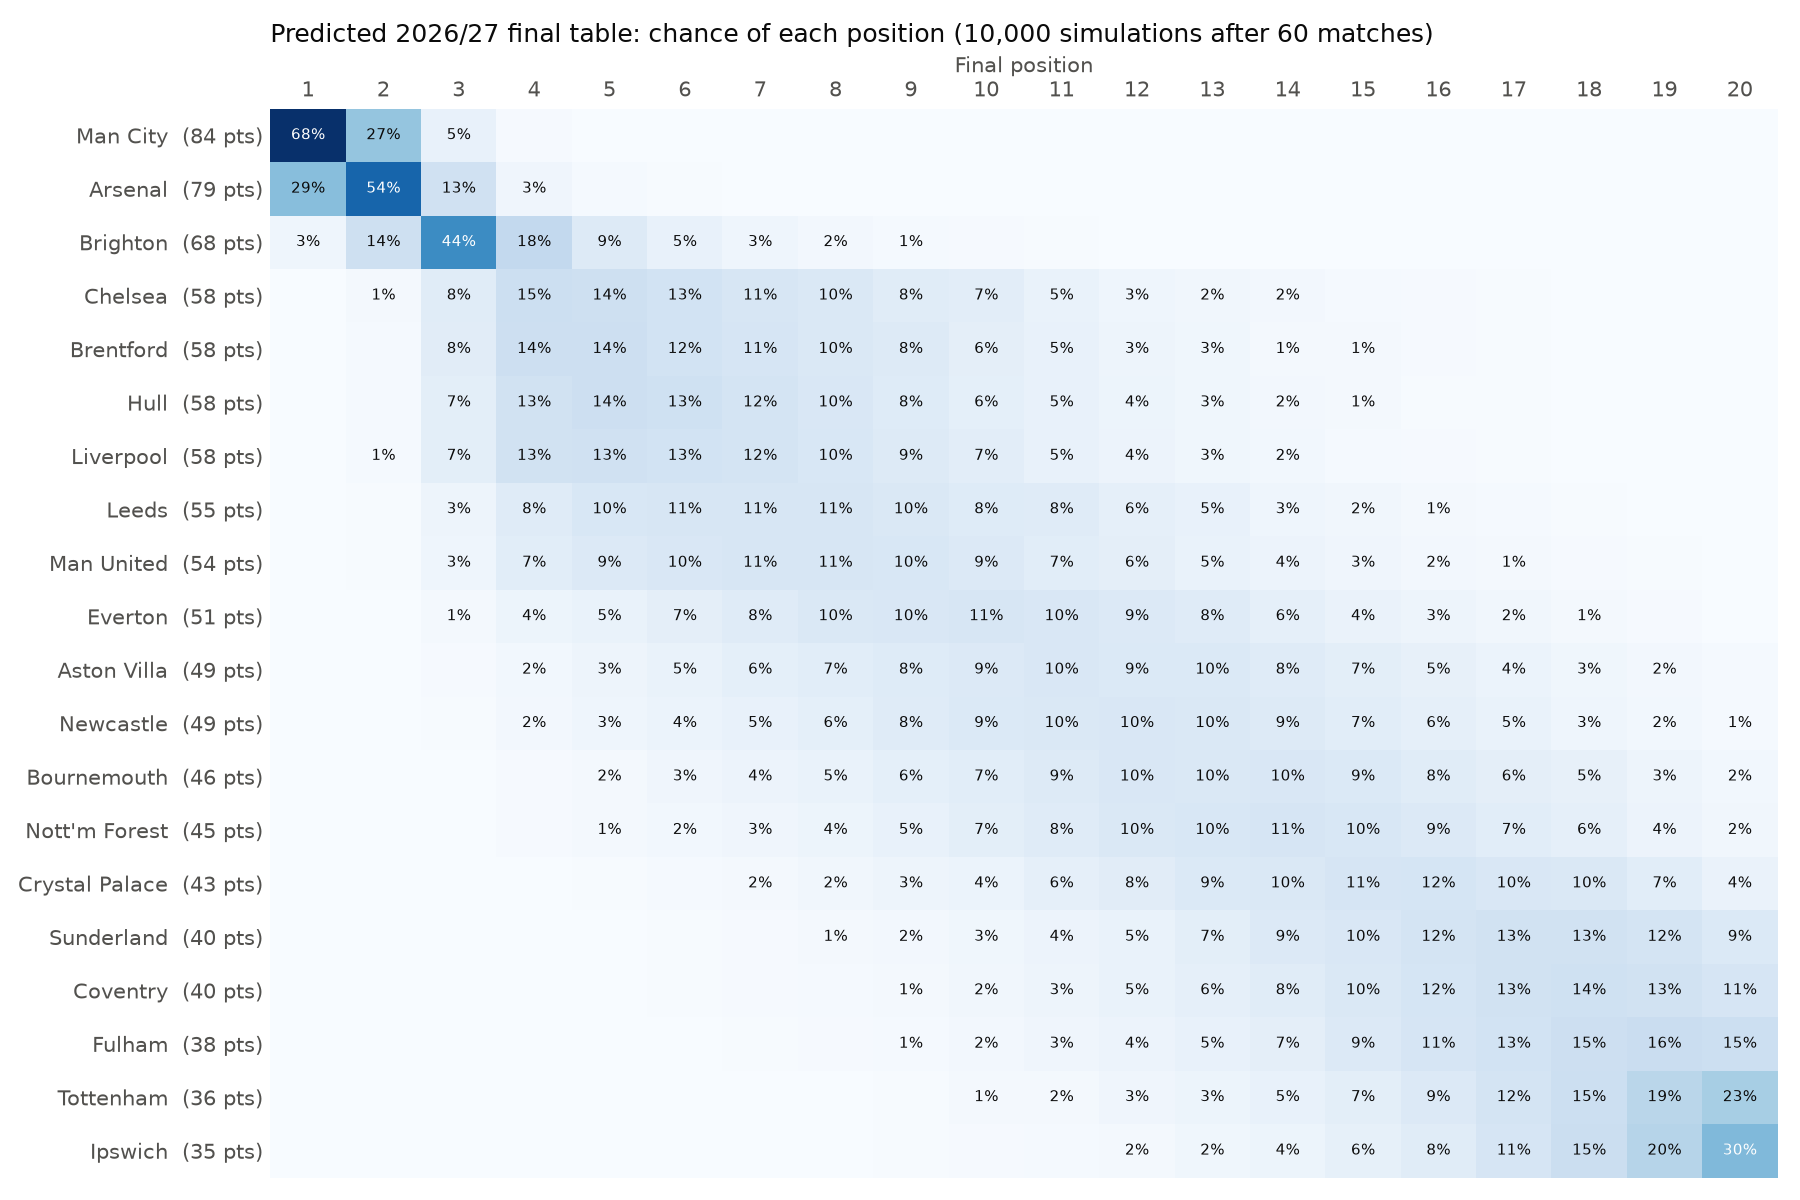
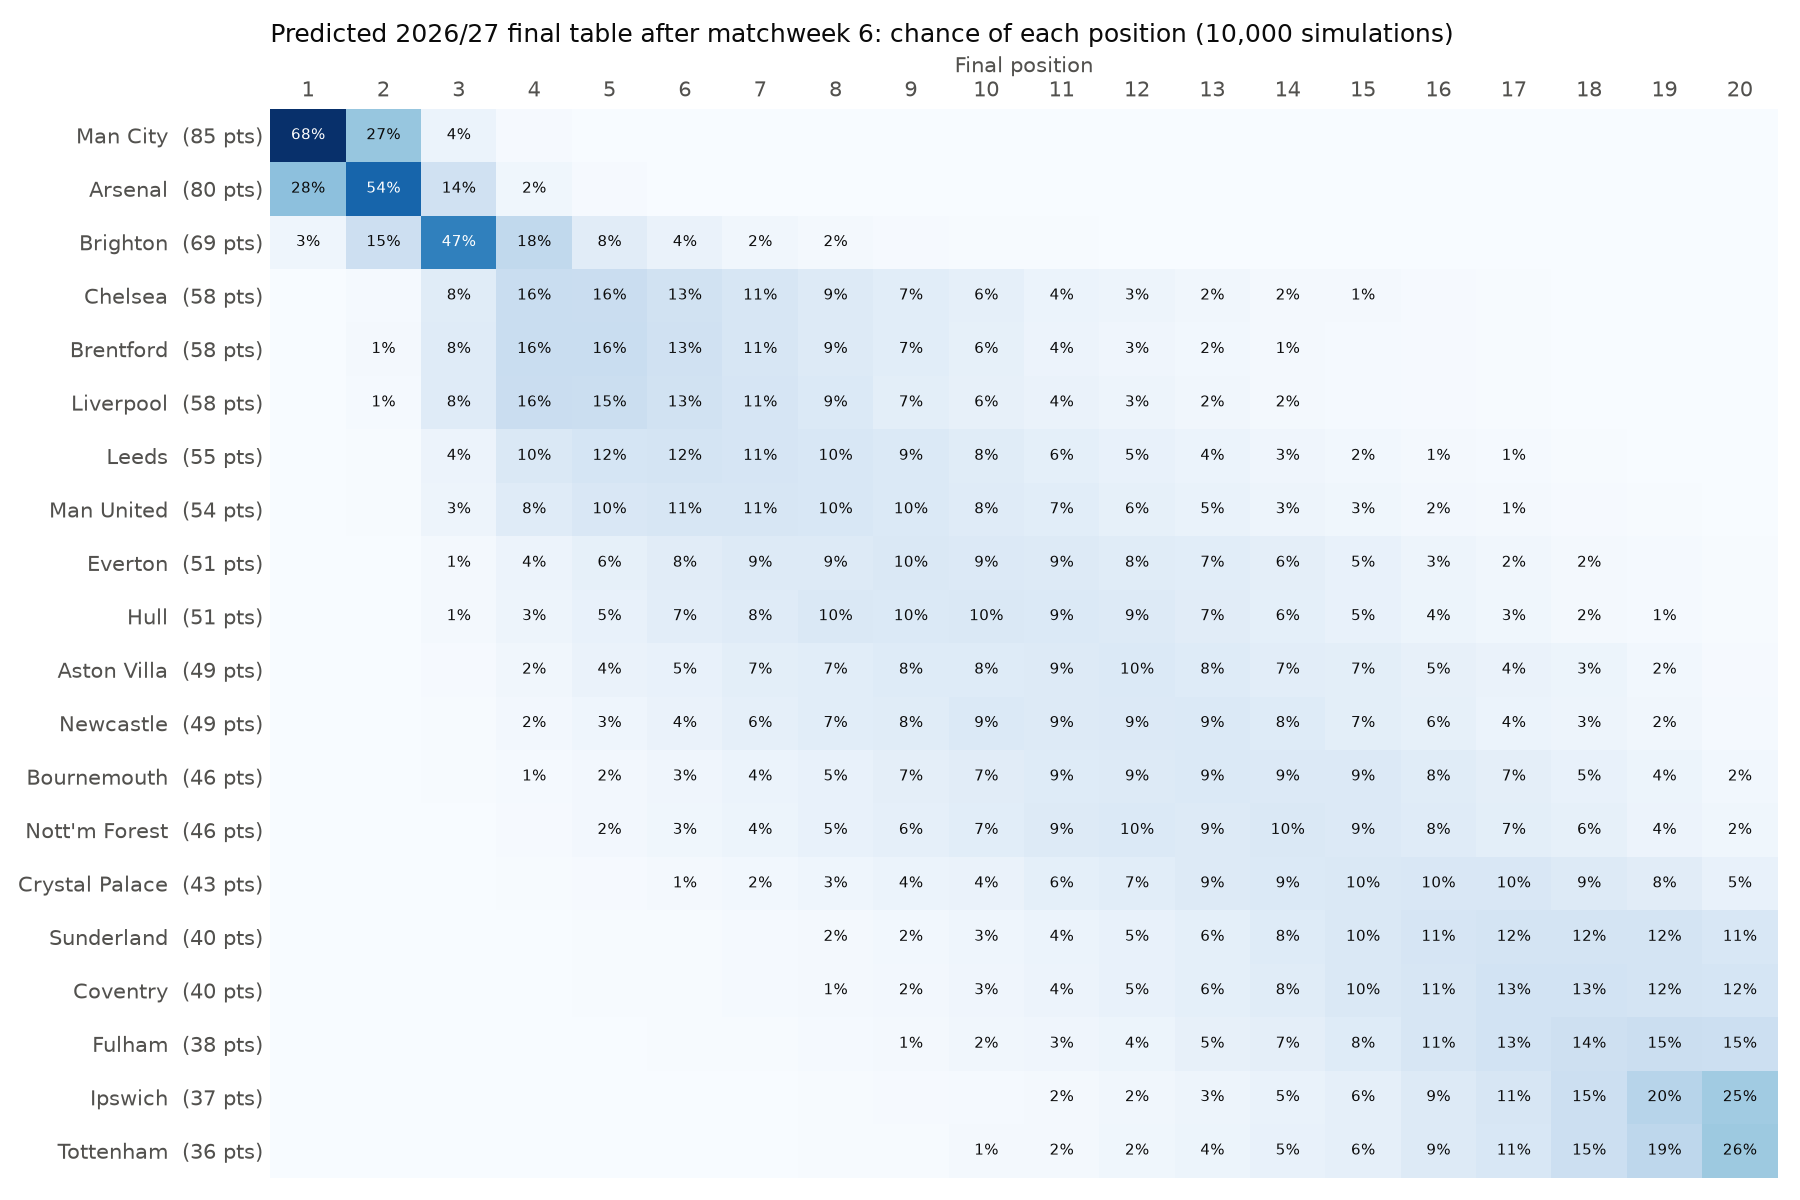
Save a predicted-table snapshot after every completed matchweek

diff --git a/src/simulate.py b/src/simulate.py
@@ -1,6 +1,7 @@
-"""Simulate the rest of the 2026/27 season 10,000 times.
+"""Simulate the rest of the 2026/27 season 10,000 times, after every matchweek.
 
-1. Build the current table from the matches already played.
+For each completed matchweek (one that isn't in the history yet):
+1. Build the table from the matches played up to the end of that matchweek.
 2. Work out the remaining fixtures: every team plays every other team once at
    home and once away, so it's all 380 pairings minus the ones already played.
 3. Fit the goals model on everything played so far, and get expected goals for
@@ -10,7 +11,9 @@
    points, then goal difference, then goals scored. Do this 10,000 times.
 5. Count how often each team finishes in each position.
 
-Writes results/season_simulation.csv and results/season_simulation.png.
+Each matchweek's predicted table is appended to results/table_history.csv,
+so the website can show how it changes week to week. The latest one is also
+saved as results/season_simulation.csv and results/season_simulation.png.
 Run after src/download.py:  python src/simulate.py
 """
 
@@ -23,13 +26,14 @@ import matplotlib.pyplot as plt
 import numpy as np
 import pandas as pd
 
-from features import load_matches
+from features import MATCHES, load_matches
 from goals import GoalsModel
+from schedule import SEASON, completed_rounds, load_fixtures
 
 PROJECT_ROOT = Path(__file__).resolve().parent.parent
 RESULTS = PROJECT_ROOT / "results"
+HISTORY = RESULTS / "table_history.csv"
 
-SEASON = "2026/27"
 SIMULATIONS = 10_000
 INK, MUTED = "#0b0b0b", "#52514e"
 
@@ -104,7 +108,7 @@ def summarise(table, positions, pts, teams):
     return summary, position_share
 
 
-def plot(position_share, summary, played_matches, path):
+def plot(position_share, summary, round_number, path):
     """Heatmap: each team's chance of finishing in each position."""
     fig, ax = plt.subplots(figsize=(12, 8))
     ax.imshow(position_share.to_numpy(), cmap="Blues", vmin=0, vmax=max(0.5, position_share.max().max()),
@@ -125,39 +129,68 @@ def plot(position_share, summary, played_matches, path):
     ax.tick_params(colors=MUTED, length=0)
     for spine in ax.spines.values():
         spine.set_visible(False)
-    ax.set_title(f"Predicted {SEASON} final table: chance of each position "
-                 f"({SIMULATIONS:,} simulations after {played_matches} matches)",
+    ax.set_title(f"Predicted {SEASON} final table after matchweek {round_number}: "
+                 f"chance of each position ({SIMULATIONS:,} simulations)",
                  loc="left", color=INK, pad=32)
     fig.tight_layout()
     fig.savefig(path, dpi=150)
     plt.close(fig)
 
 
-def main():
+def predict_table(matches, played, teams):
+    """Simulate the rest of the season from the `played` matches."""
+    table = current_table(played, teams)
+    fixtures = remaining_fixtures(played, teams)
+    model = GoalsModel().fit(matches, as_of=played["Date"].max() + pd.Timedelta(days=1),
+                             teams=teams)
+    home_xg, away_xg = model.expected_goals(fixtures["HomeTeam"], fixtures["AwayTeam"])
+    positions, pts = simulate(table, fixtures, home_xg, away_xg, teams)
+    return summarise(table, positions, pts, teams)
+
+
+def main(now=None):
+    now = pd.Timestamp.now(tz="UTC") if now is None else now
     matches = load_matches()
-    played = matches[matches["Season"] == SEASON]
-    teams = sorted(set(played["HomeTeam"]) | set(played["AwayTeam"]))
+    season = matches[matches["Season"] == SEASON]
+    teams = sorted(set(season["HomeTeam"]) | set(season["AwayTeam"]))
     if len(teams) != 20:
         raise SystemExit(f"Expected 20 teams in {SEASON}, found {len(teams)}: {teams}")
 
-    table = current_table(played, teams)
-    fixtures = remaining_fixtures(played, teams)
-    model = GoalsModel().fit(matches, as_of=played["Date"].max() + pd.Timedelta(days=1))
-    home_xg, away_xg = model.expected_goals(fixtures["HomeTeam"], fixtures["AwayTeam"])
-
-    positions, pts = simulate(table, fixtures, home_xg, away_xg, teams)
-    summary, position_share = summarise(table, positions, pts, teams)
+    fixtures = load_fixtures(pd.read_csv(MATCHES, low_memory=False), now)
+    history = pd.read_csv(HISTORY) if HISTORY.exists() else pd.DataFrame(columns=["round"])
+    new_rounds = [r for r in completed_rounds(fixtures) if r not in set(history["round"])]
+    if not new_rounds:
+        print("No newly completed matchweek; predicted table unchanged.")
+        return
 
     RESULTS.mkdir(exist_ok=True)
+    for round_number in new_rounds:
+        # The table as it stood at the end of this matchweek.
+        in_round = fixtures[(fixtures["round"] == round_number) & (fixtures["status"] == "played")]
+        cutoff = pd.to_datetime(in_round["Date"], format="%d/%m/%Y").max()
+        played = season[season["Date"] <= cutoff]
+        summary, position_share = predict_table(matches, played, teams)
+
+        snapshot = summary.assign(round=round_number,
+                                  predicted_position=summary.index).reset_index(drop=True)
+        history = pd.concat([history, snapshot], ignore_index=True)
+        print(f"Matchweek {round_number}: {len(played)} played; "
+              f"favourite {summary.iloc[0]['team']} ({summary.iloc[0]['champion']:.1%})")
+
+    history = history[["round", "predicted_position", *summary.columns]].astype(
+        {"round": int, "predicted_position": int, "played": int, "points_now": int})
+    history.to_csv(HISTORY, index=False, float_format="%.4f")
+
+    # Latest matchweek: also as its own CSV and chart (used in the README).
     summary.to_csv(RESULTS / "season_simulation.csv", index_label="predicted_position",
                    float_format="%.4f")
-    plot(position_share, summary, len(played), RESULTS / "season_simulation.png")
+    plot(position_share, summary, new_rounds[-1], RESULTS / "season_simulation.png")
 
     shown = summary.copy()
     for column in ("champion", "top_4", "relegated"):
         shown[column] = shown[column].map("{:.1%}".format)
-    print(f"{SEASON}: {len(played)} played, {len(fixtures)} remaining, "
-          f"{SIMULATIONS:,} simulations\n")
+    print(f"\nPredicted table after matchweek {new_rounds[-1]} "
+          f"({SIMULATIONS:,} simulations):\n")
     print(shown.to_string())
 
 
